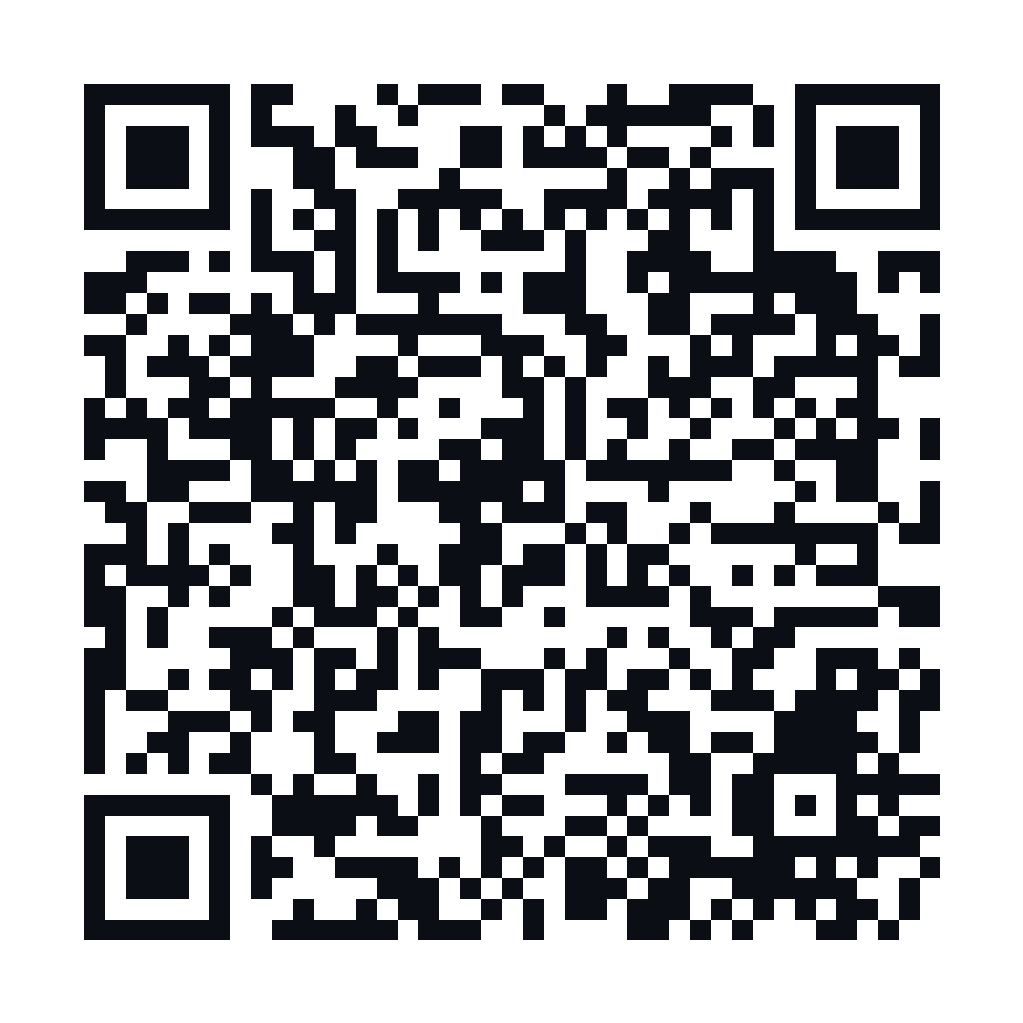
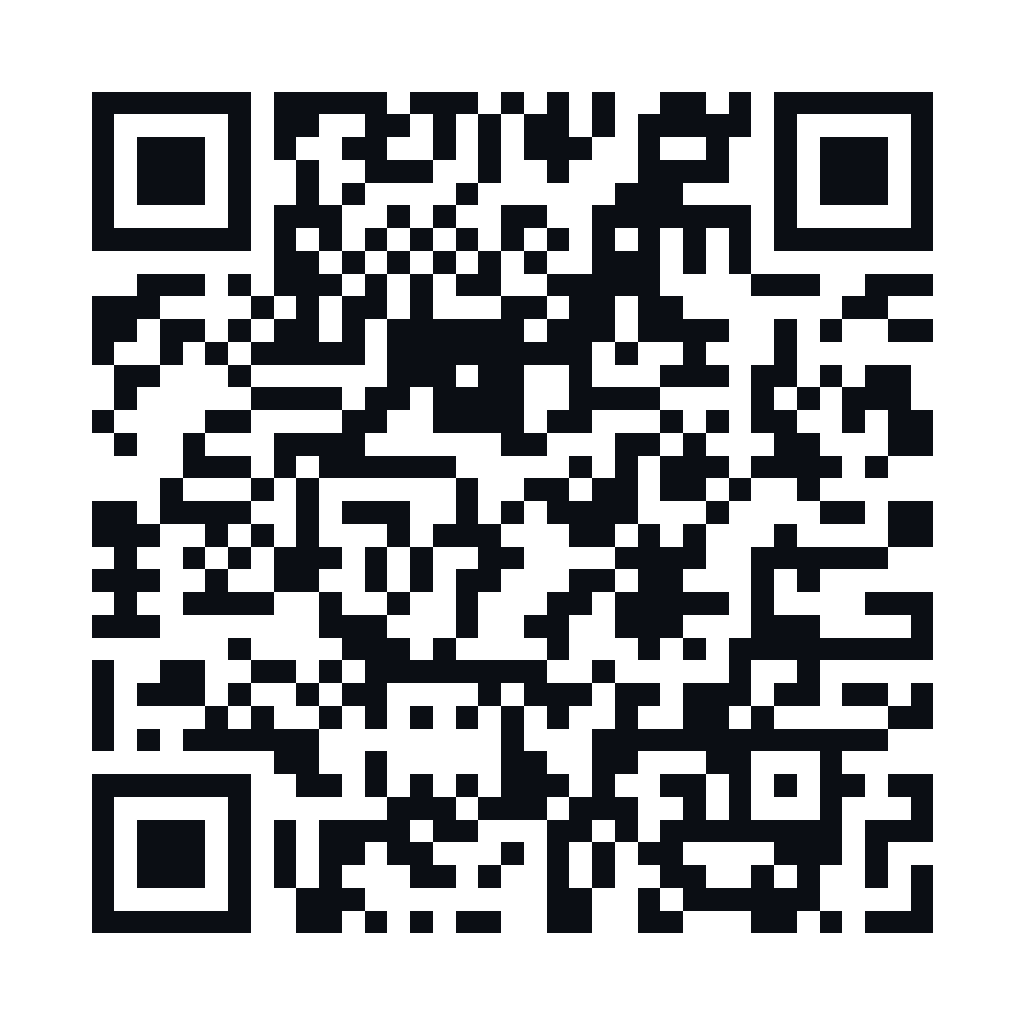
Point QR + poster at live Pages URL; document deployment

diff --git a/README.md b/README.md
@@ -1,88 +1,63 @@
 # Divar Heritage AR + Bonderam
 
+**Live:** https://editortejaswi.github.io/divar-ar/
+
 Marker-free, **geolocation-based web AR** for Divar Island, Goa. Point a phone
 around the island and its churches, temple ruins, ferries — and the **Bonderam
 festival** main event — float in place as tappable labels. No QR anchors, no app
 install: GPS + compass + camera in the browser. Built on
 [LocAR.js](https://github.com/AR-js-org/locar.js) + Three.js.
 
-## Quick start
+## Use it (phone)
+
+Open the live URL in **Safari/Chrome**, tap **Start AR**, allow **camera /
+location (Precise) / motion**, go outside with sky view. Indoor preview with
+fake GPS: append `?demo=1`.
+
+## Develop locally
 
 ```bash
 npm install
-npm run dev            # http://localhost:5173  (desktop)
+npm run dev             # http://localhost:5173  (add /?demo=1 to preview)
+npm run dev:phone       # HTTPS + LAN, for testing on a phone on the same Wi-Fi
 ```
-
-Preview with fake GPS (no phone/GPS needed): **http://localhost:5173/?demo=1**
-
-## Test on your phone (iPhone/Android)
-
-Camera + GPS need **HTTPS**. Two ways:
-
-- **Same Wi-Fi, self-signed:** `npm run dev:phone` → open the printed
-  `https://<mac-ip>:5173/` on the phone, accept the cert warning.
-- **Public HTTPS via tunnel (no cert warning, works on cellular):**
-  ```bash
-  npm run dev
-  cloudflared tunnel --url http://localhost:5173     # prints a https URL
-  ```
-
-On the phone: tap **Start AR** → allow **camera / location (Precise) / motion** →
-go outside with sky view. iOS: `Settings → Safari → Motion & Orientation Access`
-must be ON; use a normal (non-Private) tab.
 
 ## What it does
 
 - **Explore layer** — heritage POIs (churches, Saptakoteshwar ruins, three ferry
-  ramps) with history; the **HUD** shows the nearest thing to explore with
-  distance + walking ETA.
+  ramps) with history; the HUD shows the nearest thing to explore with distance
+  + walking ETA.
 - **Bonderam layer** — an adaptive banner that counts down to the festival and,
-  once it knows where you are, shows **distance + walking ETA to the main event**
-  and a **leave-by time** in the last 6 hours. Phases: `before → soon → live →
-  after`. Times/anchor live in `FESTIVAL` at the top of `src/pois.js`.
-- **☰ Sites** — every point sorted by distance with ETA + compass (works even if
-  camera/compass are flaky — a reliable fallback).
+  once it knows where you are, shows distance + walking ETA to the main event
+  and a leave-by time in the last 6 hours (`before → soon → live → after`). Times
+  + anchor live in `FESTIVAL` at the top of `src/pois.js`.
+- **☰ Sites** — everything sorted by distance with ETA + compass (works even if
+  camera/compass are flaky).
 - **📍 Capture** — record exact coordinates on-site (see below).
 
 ## Fixing coordinates (important)
 
 Only the church is source-verified; everything else — **including the Bonderam
-main-event location** — is approximate (`△ approx` badge). The ETA/countdown are
-only as good as that coordinate, so before the festival:
+main-event location** — is approximate (`△ approx` badge), and the ETA/countdown
+are only as good as it. Stand at the real spot → **📍 Capture → Capture reading**
+(accuracy < ~10 m) → **Copy JSON** → paste `lat`/`lon` into that entry in
+`src/pois.js` (and `FESTIVAL.mainEvent`), set `verified: true`, commit + push.
 
-1. Stand at the actual spot (e.g. the Divar Center stage / flag-march ground).
-2. **📍 Capture → Capture reading** (wait for accuracy < ~10 m).
-3. **Copy JSON** → paste `lat`/`lon` into that entry in `src/pois.js` (and into
-   `FESTIVAL.mainEvent`), set `verified: true`.
+## Deployment (automatic)
 
-## QR code + share poster
+Pushing to `main` triggers `.github/workflows/deploy.yml`, which builds and
+publishes to GitHub Pages. The Vite `base` is `/divar-ar/` (project-pages
+subpath) — change `REPO` in `vite.config.js` if you rename the repo.
+
+## QR + share poster
 
 ```bash
-node make-qr.mjs <your-public-url>
+node make-qr.mjs https://editortejaswi.github.io/divar-ar/
 ```
 
-Writes `qr/divar-ar-qr.png` (1024 px) and `qr/divar-ar-qr.svg` (scalable, for
-print). A ready share/print poster is at `qr/divar-ar-poster.png` (1080×1350).
-
-> The QR must point at a **permanent** URL. A `trycloudflare.com` tunnel URL is
-> temporary — fine for testing, useless on a printed poster tomorrow. Deploy
-> first (below), then regenerate the QR with the permanent URL.
-
-## Deploy a permanent URL
-
-The whole app is **static + client-side** (no backend), so host it on a CDN —
-it'll handle festival-scale traffic for free.
-
-- **Fastest, no CLI:** `npm run build`, then drag the **`dist/`** folder onto
-  <https://app.netlify.com/drop> → instant permanent `something.netlify.app`.
-- **Cloudflare Pages / GitHub Pages:** also fine (Pages/Netlify serve at the
-  domain root, so no Vite `base` tweak needed).
-
-Then: `node make-qr.mjs https://something.netlify.app` and re-share.
-
-**Festival-scale tip:** make it an offline PWA so it keeps working when the
-island's cellular network is saturated by the crowd — each phone then hits the
-network only once (ideally on the ferry in). (Not yet added; recommended next.)
+`qr/divar-ar-qr.png` / `.svg` are the codes; `qr/divar-ar-poster.png`
+(2160×2700) is the Bonderam-styled share/print poster (official logo + festival
+photos + QR). Regenerate both if the URL changes.
 
 ## Project layout
 
@@ -93,13 +68,13 @@ src/pois.js       FESTIVAL config + Divar POI dataset (edit me)
 src/labels.js     billboarded canvas-texture label sprites
 src/geo.js        haversine distance, bearing, compass
 make-qr.mjs       QR generator (PNG + SVG)
-qr/               generated QR + poster
-vite.config.js    HTTPS toggle + tunnel host allow-list
+qr/               generated QR + poster + cleaned Bonderam logo
+.github/workflows/deploy.yml   CI build + Pages deploy
 ```
 
 ## Honest accuracy notes
 
 Phone GPS is ~5–20 m outdoors (worse in crowds/near metal, useless indoors);
 compass can be 10–30° off. Great for "the main event is ~150 m NW, ~2 min walk";
-not for pinning content to a doorway. Centimetre precision needs a pre-scanned
-VPS — a heavier path this app deliberately avoids.
+not for pinning content to a doorway. Centimetre precision would need a
+pre-scanned VPS — a heavier path this app deliberately avoids.
